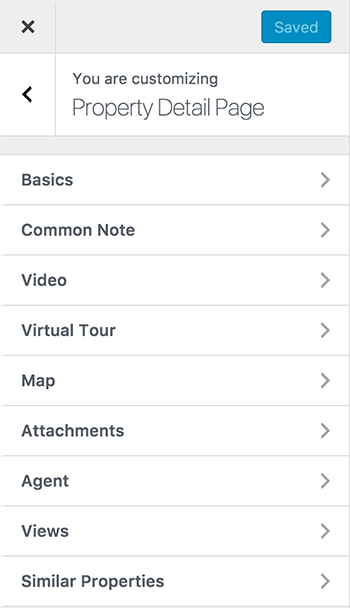
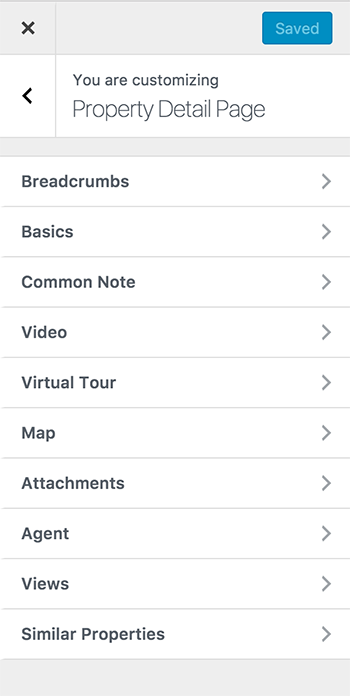
Updated property details page settings 💯

diff --git a/index.html b/index.html
@@ -604,15 +604,17 @@
                     <article class="hentry" id="inspiry-property-detail-page">
                         <div class="entry-content">
                             <h2 class="entry-title">Property Detail Page Settings</h2>
-                            <p>There are 8 types of different settings you can change for <Strong>Property Detail Page</Strong> (Single Property Page).</p>
+                            <p>There are 10 types of different settings you can change for <Strong>Property Detail Page</Strong> (Single Property Page).</p>
                             <ol>
                                 <li>Breadcrumbs</li>
                                 <li>Basics</li>
                                 <li>Common Note</li>
                                 <li>Video</li>
+                                <li>Virtual Tour</li>
                                 <li>Map</li>
                                 <li>Attachments</li>
                                 <li>Agent</li>
+                                <li>Views</li>
                                 <li>Similar Properties</li>
                             </ol>
                             <p>To change any of the above settings you can go to &ldquo;<strong>Dashboard</strong> &rarr; <strong>Appearance</strong> &rarr; <strong>Customize</strong> &rarr; <strong>Property Detail Page</strong>&rdquo;.</p>
